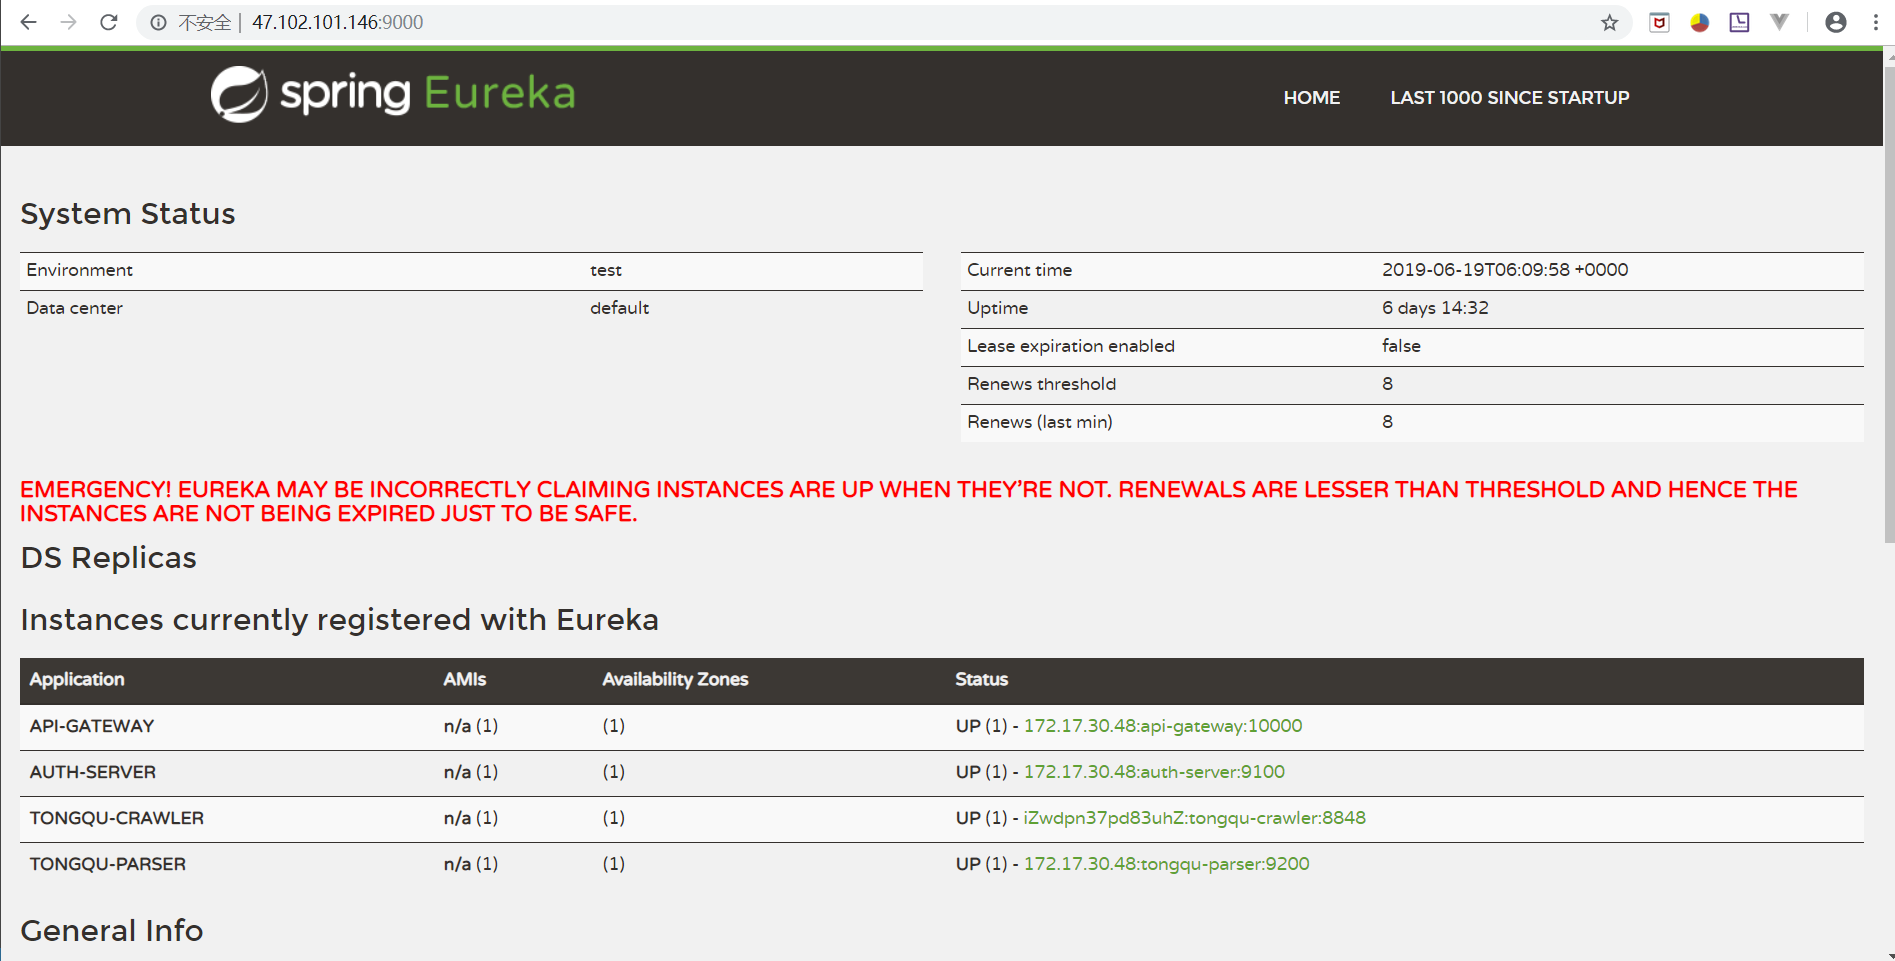
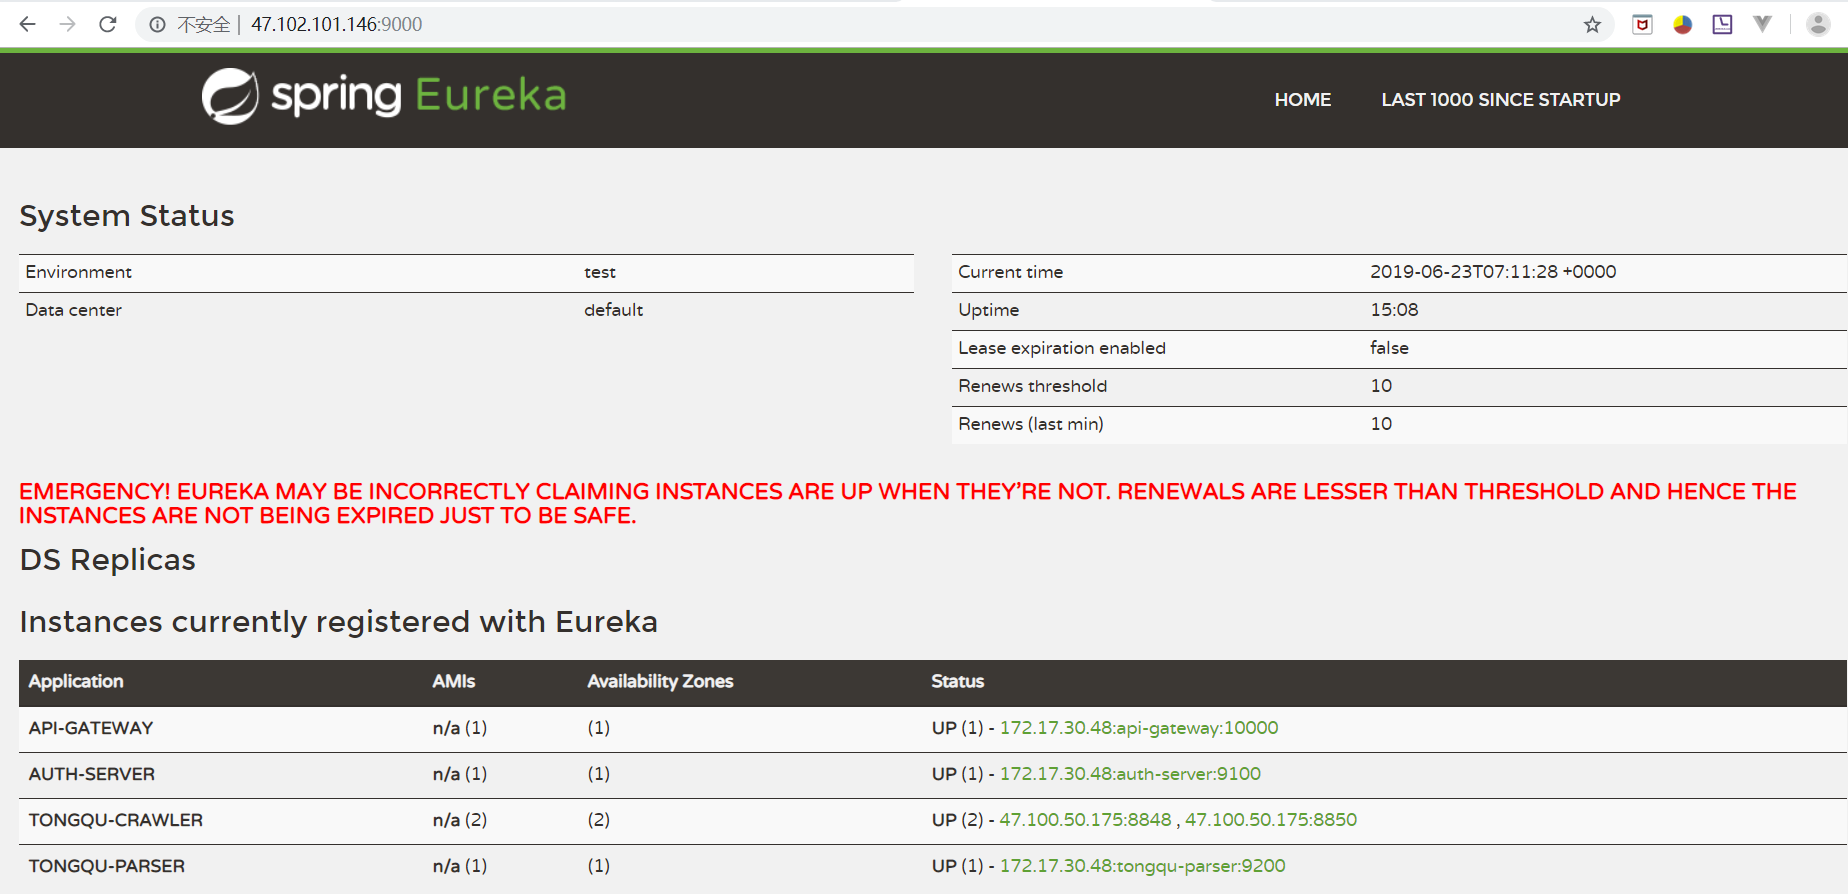
update readme.md

diff --git a/README.md b/README.md
@@ -20,6 +20,7 @@ Crawl the data from Tongqu website with web crawler, analyse the content(titles 
 - Vue
 - OAuth
 - Jenkins + BlueOcean
+- Jieba (Java version)
 - MongoDB + HttpClient (For Crawling)
 
 ### Coding Standard
@@ -31,6 +32,7 @@ Crawl the data from Tongqu website with web crawler, analyse the content(titles 
 ## Brief Introduction
 
 ### Basic Functions
+We crawl the data from "tongqu" by "TongquCrawler" service, store it into mongoDB. TongquParser service then fetches the data and parses it. The front end page shows the result.
 
 Our project can be seen here:
 
@@ -44,16 +46,16 @@ We have only one user so you don't need to input the username and the password. 
 
 ![avatar](./imgs/16.png)
 
-We have crawled the data from "tongqu" and parsed it. The page shows the result. Simply click the title of the activity at the home page to jump to the targeting activity page.
+ Simply click the title of the activity at the home page to jump to the targeting activity page.
 
 ![avatar](./imgs/17.png)
 
 ### Structure
-
 The microservices of the project are in ./project folder as bellow:
+<br/>
 ![avatar](./imgs/11.png)
 
-The Eureka page is at http://47.102.101.146:9000/, from which you can see where some of our microservices are deployed:
+We have 2 Crawler services and implemented load balance, as you can see in the Eureka page. The Eureka page is at http://47.102.101.146:9000/, from which you can see where some of our microservices are deployed:
 ![avatar](./imgs/18.png)
 
 ### Jenkins
